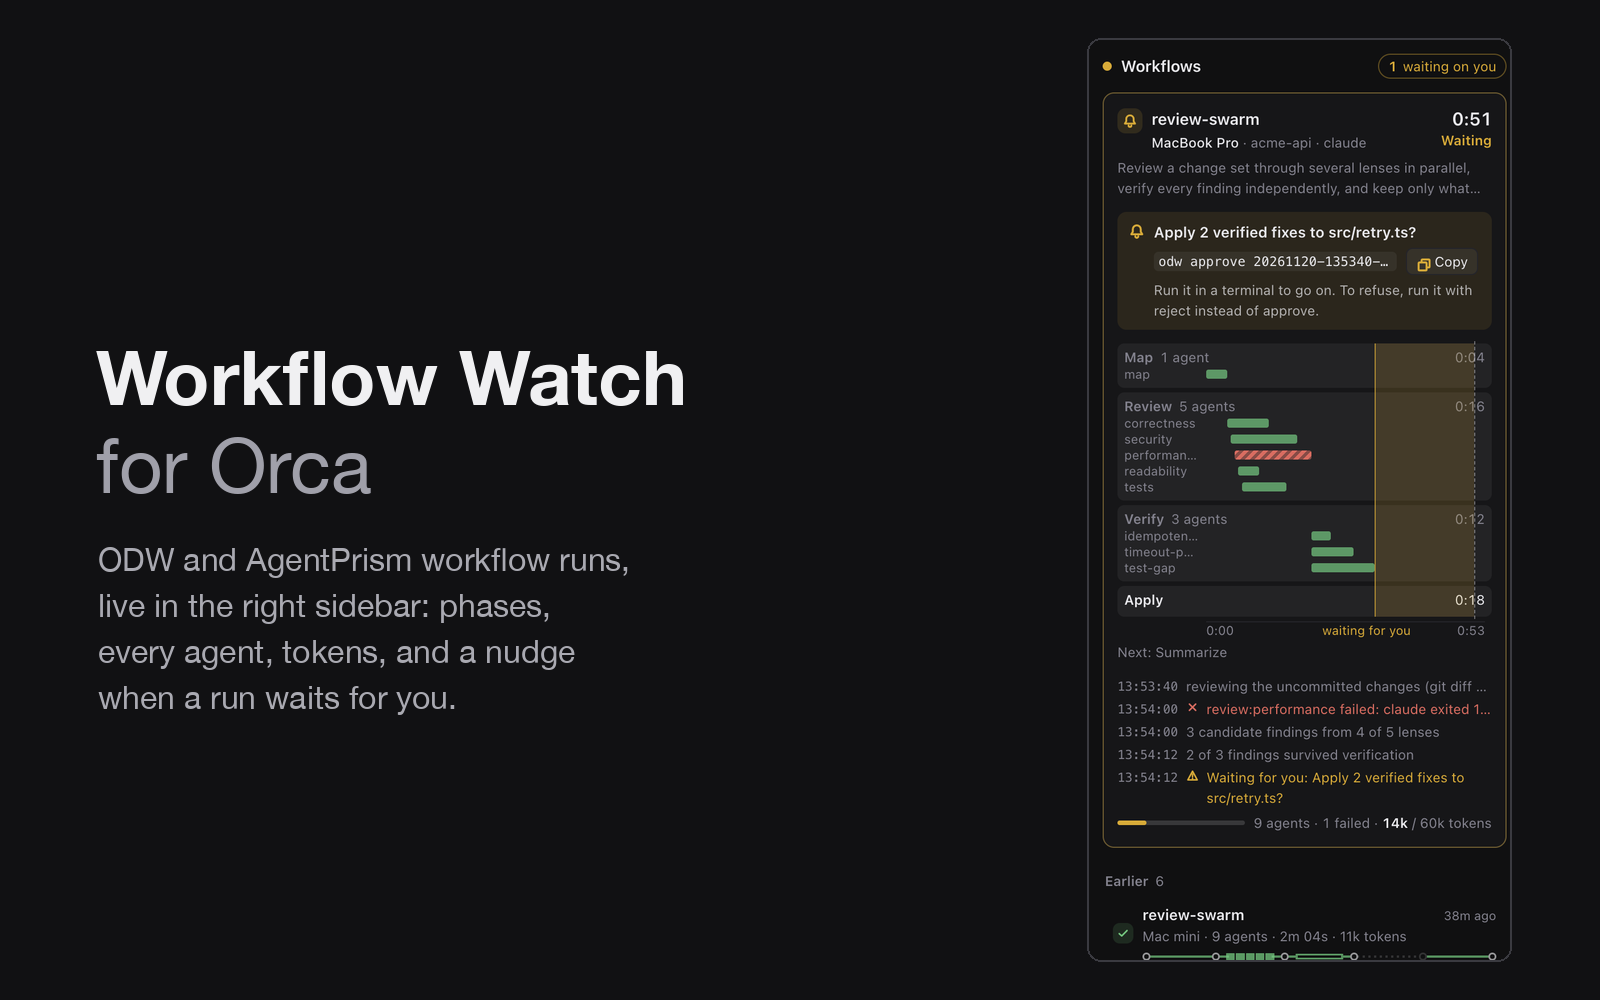
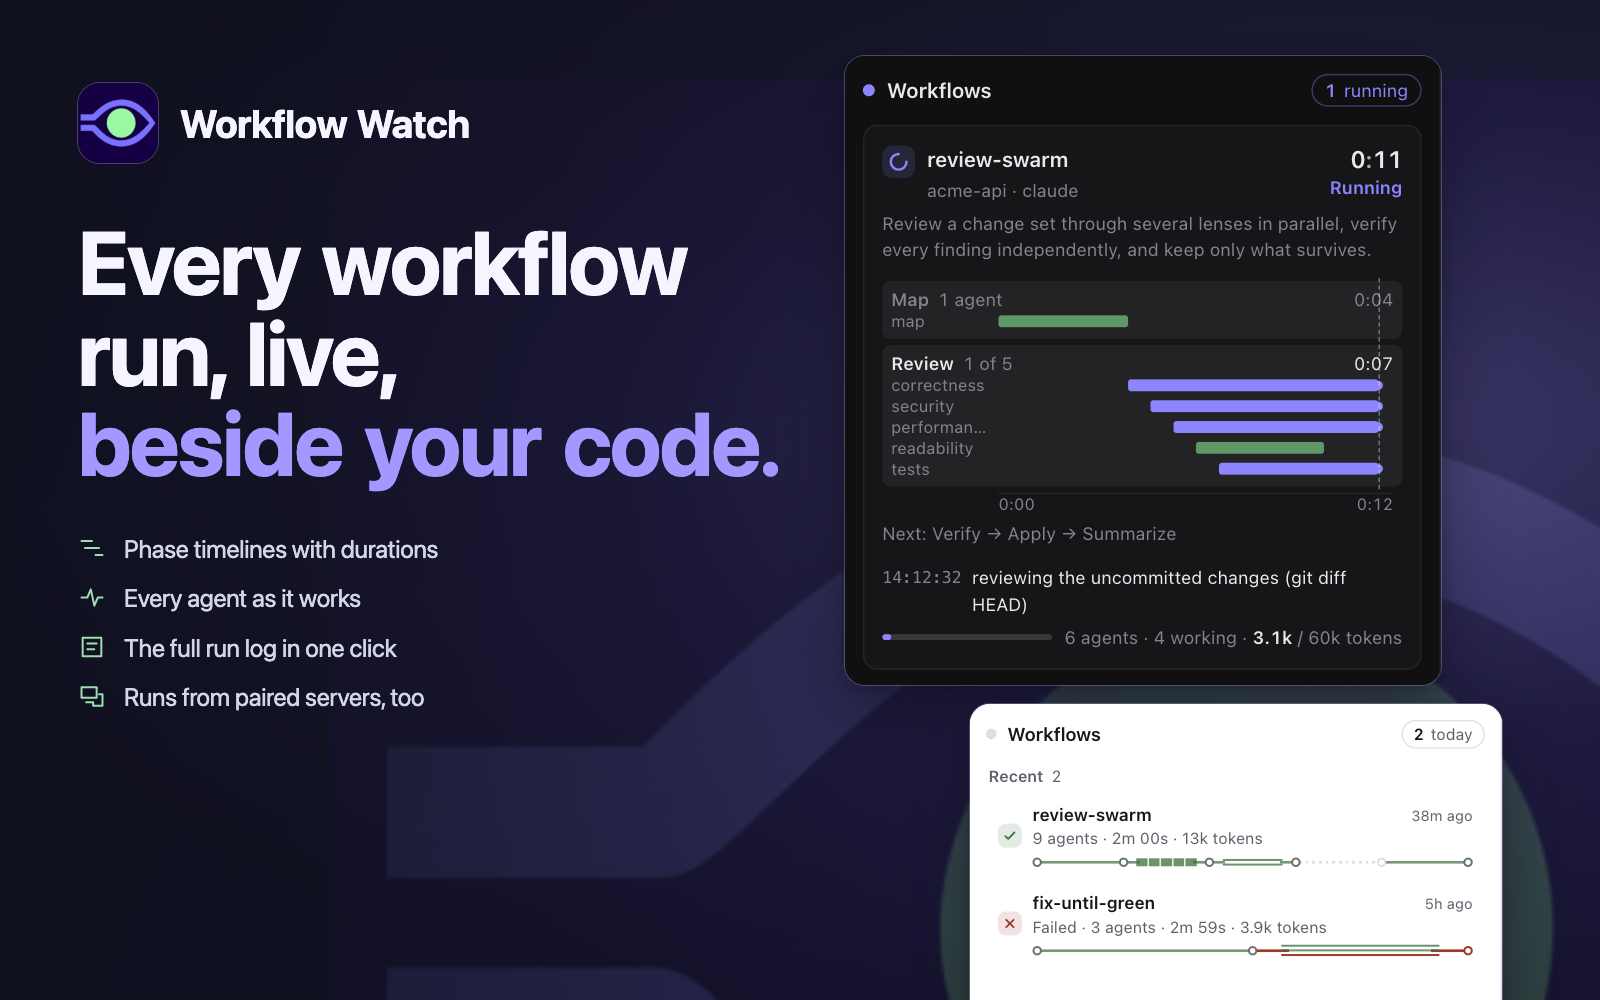
Workflow Watch for Orca 0.3.1: showcase real runs in the plugin listing

diff --git a/dev/listing/render.js b/dev/listing/render.js
@@ -1,0 +1,117 @@
+// Recorded worker replies from dev/preview.mjs and scripts/simulate-run.mjs (--plan for the log).
+// Serve the repository on loopback and load /dev/listing/?view=cover|live|finished|log|paired.
+const view = new URLSearchParams(location.search).get('view') || 'cover'
+const copy = {
+  cover: [['Every workflow', 'run, live,', 'beside your code.'], ''],
+  live: [['Watch agents', 'work in', 'parallel.'], 'Follow each agent on the timeline as the review runs.'],
+  finished: [['See where', 'the time', 'went.'], 'Open a finished run to compare phase durations and see which agents ran together.'],
+  log: [['Read the', 'whole run', 'log.'], 'Open the event log in one click. Follow new lines as they arrive, or scroll back to a failed step.'],
+  paired: [['Two machines.', 'One run', 'history.'], 'See runs from this computer and your paired Orca servers in the same sidebar.'],
+}
+const [lines, description] = copy[view]
+document.body.className = view + (['paired', 'finished'].includes(view) ? ' light' : '')
+const headline = document.querySelector('h1')
+for (const [i, line] of lines.entries()) {
+  const span = document.createElement('span')
+  if (i === lines.length - 1) {
+    const em = document.createElement('em')
+    em.textContent = line
+    span.append(em)
+  } else span.textContent = line
+  headline.append(span)
+}
+document.querySelector('#copy p').textContent = description
+if (view === 'cover') {
+  const features = [
+    ['M3 6h9m-6 6h12m-3 6h6', 'Phase timelines with durations'],
+    ['M3 12h5l3-7 3 14 3-7h4', 'Every agent as it works'],
+    ['M4 4h16v16H4zM8 9h8m-8 5h6', 'The full run log in one click'],
+    ['M3 4h13v9H3zM7 17h6m5-7h3v10h-8v-3', 'Runs from paired servers, too'],
+  ]
+  for (const [path, label] of features) {
+    const li = document.createElement('li')
+    li.innerHTML = '<svg viewBox="0 0 24 24" aria-hidden="true"><path d="' + path + '"/></svg>'
+    li.append(label)
+    document.querySelector('ul').append(li)
+  }
+}
+
+const read = async (path) => (await fetch(path)).text()
+const [panel, preview, recording] = await Promise.all([
+  read('/panel/index.html'), read('/dev/preview.html'), read('demo.json').then(JSON.parse),
+])
+const theme = new DOMParser().parseFromString(preview, 'text/html').querySelector('style').outerHTML
+const sleep = ms => new Promise(resolve => setTimeout(resolve, ms))
+async function waitFor(check) {
+  for (let i = 0; i < 120; i++) {
+    const value = check()
+    if (value) return value
+    await sleep(50)
+  }
+  throw new Error('Panel did not reach its requested state')
+}
+async function show(state) {
+  const snap = structuredClone(recording.snapshot)
+  const select = {
+    live: r => !r.host && r.workflow !== 'plan-flow',
+    finished: r => !r.host && r.state === 'done' && r.workflow !== 'plan-flow',
+    history: r => !r.host && r.state !== 'running' && r.workflow !== 'plan-flow',
+    log: r => r.workflow === 'plan-flow',
+    paired: r => r.state !== 'running' && r.workflow !== 'plan-flow' && (r.host || r.workflow !== 'deep-research'),
+  }
+  snap.runs = snap.runs.filter(select[state])
+  if (state === 'history') snap.runs = snap.runs.slice(0, 2)
+  if (state !== 'paired') snap.hosts = []
+  // Freeze the clock at the worker reading. The page still renders the actual panel and its interactions.
+  const now = Math.max(snap.scannedAt, ...snap.runs.map(r => r.updatedAt))
+  const shim = `<script>
+    Date.now = () => ${now}
+    window.orca = {on: () => ({}), plugin: {
+      on: () => ({}), request: async (name, input) => {
+        if (name === 'watch.snapshot') return ${JSON.stringify(snap)}
+        if (name === 'watch.log') return (${JSON.stringify(recording.logs)})[input.runId]
+        throw new Error(name)
+      }
+    }}
+    </script>`
+  const light = ['history', 'finished', 'paired'].includes(state)
+  const width = 400
+  const box = document.createElement('div')
+  box.className = 'shot'
+  const frame = document.createElement('iframe')
+  frame.title = state + ' panel'
+  frame.width = width
+  frame.height = 450
+  box.append(frame)
+  document.querySelector('#panels').append(box)
+  frame.srcdoc = panel.replace('<html>', '<html class="' + (light ? 'light' : 'dark') + '" style="--w:400px">')
+    .replace('<head>', '<head><base href="/panel/">' + theme + shim)
+  const doc = await waitFor(() => frame.contentDocument?.querySelector('.run, button.row')?.ownerDocument)
+  if (state === 'finished') {
+    doc.querySelector('button.row').click()
+    await waitFor(() => doc.querySelector('article.expanded'))
+  }
+  if (state === 'log') {
+    doc.querySelector('.log-toggle').click()
+    await waitFor(() => doc.querySelector('dialog[open] li'))
+  }
+  await sleep(800)
+  // Frame the sidebar at a natural boundary: a whole card or the end of its history rows.
+  const bottom = el => el.getBoundingClientRect().bottom + frame.contentWindow.scrollY
+  let height = 460
+  if (state === 'history') height = Math.ceil(bottom(doc.querySelector('#list'))) + 10
+  if (state === 'paired') height = Math.ceil(bottom(doc.querySelector('#foot'))) + 10
+  if (state === 'live' || state === 'finished') height = Math.ceil(bottom(doc.querySelector('article.run'))) + 10
+  frame.height = height
+  let zoom = parseFloat(getComputedStyle(box).getPropertyValue('--zoom'))
+  if (view !== 'cover') {
+    zoom = Math.min(zoom, 912 / height)
+    box.style.left = (1125 - width * zoom / 2) + 'px'
+    box.style.top = (1000 - height * zoom) / 2 + 'px'
+  }
+  box.style.setProperty('--zoom', zoom)
+  box.style.width = width * zoom + 'px'
+  box.style.height = height * zoom + 'px'
+}
+for (const state of view === 'cover' ? ['live', 'history'] : [view]) await show(state)
+document.body.dataset.ready = 'true'

diff --git a/dev/listing/listing.css b/dev/listing/listing.css
@@ -1,0 +1,42 @@
+* { box-sizing: border-box; }
+html, body { margin: 0; width: 1600px; height: 1000px; overflow: hidden; }
+body {
+  font-family: Inter, -apple-system, BlinkMacSystemFont, 'Helvetica Neue', sans-serif;
+  color: #f6f7ff;
+  background: #0b1023;
+}
+main { position: relative; isolation: isolate; height: 100%; overflow: hidden;
+  background: radial-gradient(ellipse at 83% 42%, #3e426a 0%, #191f3d 38%, #0a1022 80%); }
+main::before { content: ''; position: absolute; inset: 0; z-index: -1;
+  background: url('/assets/icon.png') right -430px bottom -780px / 1700px auto no-repeat;
+  mix-blend-mode: screen; opacity: .20; }
+main::after { content: ''; z-index: -1; position: absolute; inset: 0;
+  background: linear-gradient(110deg,#0b1022 1%,transparent 65%); }
+header { position: absolute; top: 83px; left: 78px; display: flex; align-items: center; gap: 22px; }
+header img { width: 80px; height: 80px; border-radius: 22px; box-shadow: 0 0 0 1px #c5bdff50, 0 10px 20px #08092344; }
+header b { font-size: 39px; letter-spacing: -.6px; word-spacing: 2px; }
+#copy { position: absolute; top: 285px; left: 78px; width: 615px; }
+h1 { margin: 0; font-size: 87px; line-height: 1.02; letter-spacing: -1.5px; word-spacing: 6px; font-weight: 720; }
+h1 span { display: block; }
+h1 em { color: #a7a7ff; font-style: normal; }
+p { font-size: 32px; letter-spacing: -.65px; color: #c1c9df; line-height: 1.38; max-width: 545px; margin: 36px 0 0; }
+ul { list-style: none; padding: 0; margin: 45px 0 0; }
+li { display: flex; gap: 18px; align-items: center; font-size: 25px; color: #d6dbeb; margin: 20px 0; letter-spacing: -.38px; }
+li svg { width: 28px; height: 28px; fill: none; stroke: #86e3bc; stroke-width: 1.7; stroke-linecap: round; stroke-linejoin: round; }
+body.cover #copy { top: 216px; width: 735px; }
+body.cover h1 { font-size: 89px; }
+body.cover p { display: none; }
+#panels { position: absolute; inset: 0; pointer-events: none; }
+.shot { position: absolute; border-radius: 20px; overflow: hidden; background: #0e0e10;
+  outline: 1px solid #c4c7f34d; box-shadow: 0 30px 70px #04071670, 0 6px 16px #05071844;
+  --zoom: 2; width: 800px; left: 725px; top: 68px; }
+iframe { border: none; display: block; transform: scale(var(--zoom)); transform-origin: 0 0; }
+body.cover .shot:first-child { left: 845px; top: 56px; --zoom: 1.49; width: 596px; }
+body.cover .shot:nth-child(2) { left: 970px; top: 704px; --zoom: 1.33; width: 532px; }
+body.light { color: #181c37; }
+body.light main { background: radial-gradient(ellipse at 85% 30%, #d6d7f6, #ecebfa 53%, #f6f6ff 92%); }
+body.light main::before { mix-blend-mode: multiply; opacity: .065; }
+body.light main::after { background: linear-gradient(110deg,#f6f6ff 3%, transparent 72%); }
+body.light p { color: #4e526e; }
+body.light h1 em { color: #4c46b5; }
+body.light .shot { background: #fff; box-shadow: 0 24px 60px #49477138, 0 5px 12px #49477120; outline-color: #77709c35; }

diff --git a/dev/listing/index.html b/dev/listing/index.html
@@ -1,0 +1,17 @@
+<!doctype html>
+<html lang="en">
+<head>
+  <meta charset="utf-8">
+  <meta name="viewport" content="width=device-width,initial-scale=1">
+  <title>Workflow Watch listing art</title>
+  <link rel="stylesheet" href="listing.css">
+</head>
+<body>
+  <main>
+    <header><img src="/assets/icon.png" alt=""><b>Workflow Watch</b></header>
+    <section id="copy"><h1></h1><p></p><ul></ul></section>
+    <section id="panels" aria-label="Workflow Watch preview"></section>
+  </main>
+  <script type="module" src="render.js"></script>
+</body>
+</html>

diff --git a/README.md b/README.md
@@ -33,24 +33,15 @@ Adding an engine is one more `RunSource` in the worker's list.
 
 ## Install
 
-Needs Orca 1.4.248 or newer. Orca installs it as `<publisher>.workflow-watch-orca`; the publisher comes from where you install it, so `orca plugin list` shows the key to use with `orca plugin update`.
-
-**From Orca's community catalog:** open [its directory page](https://orca.dev/plugins/christianorrala.workflow-watch-orca?catalog=community) and press Install in Orca, or from a terminal:
+Needs Orca 1.4.248 or newer. Install Workflow Watch from the publisher’s `ChristianOrrala/agents` catalog on the computer whose runs you want to watch.
 
 ```sh
-orca plugin install christianorrala.workflow-watch-orca --catalog community
-```
-
-**From the ChristianOrrala/agents catalog:**
-
-```sh
-orca plugin catalog add ChristianOrrala/agents          # answers approval_required: re-run with --approve <fingerprint>
+orca plugin catalog add ChristianOrrala/agents
 orca plugin install christianorrala.workflow-watch-orca
-# Orca answers approval_required with the exact command to run again with --approve <fingerprint>.
 orca plugin update christianorrala.workflow-watch-orca   # later
 ```
 
-Both install as `christianorrala.workflow-watch-orca`, and an install updates only from the catalog it came from (with both catalogs added, pick one with `--catalog`). `orca plugin install ChristianOrrala/orca-workflow-watch` also works, straight from the repository's newest version tag, unverified. Each install watches the runs on the computer it is on.
+If Orca answers `approval_required`, run the command it prints with `--approve <fingerprint>` before continuing.
 
 **With paired Orca servers:** the plugin must also run on each server, loaded there as a development folder (key `local.workflow-watch-orca`), because the worker asks a paired server through `orca plugin dev request`, which reaches only development plugins (Orca refuses it for installed ones). On each server (or from your computer, with `--environment <server>` and the server's absolute path):
 
